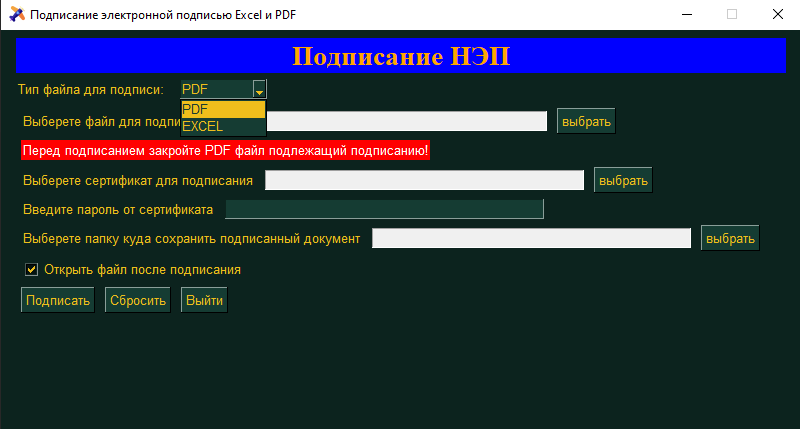
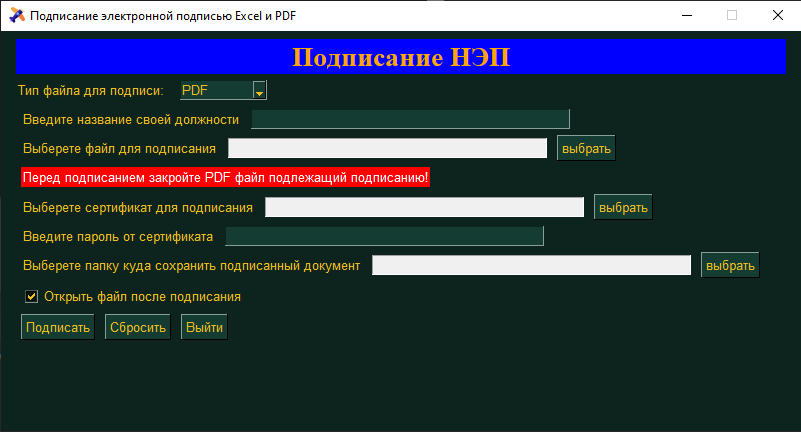
add visible date stamp to signature and add new text field in gui stuff position

Changed region(s): [[0.0, 0.1818, 0.9688, 0.7879], [0.0, 0.0, 1.0, 0.1818], [0.0312, 0.1818, 0.1875, 0.2424]]

diff --git a/sign.py b/sign.py
@@ -8,6 +8,7 @@ from cryptography.hazmat import backends
 from cryptography.hazmat.primitives.serialization import pkcs12
 from cryptography.x509.oid import NameOID
 from endesive import pdf
+from datetime import datetime
 signature_string = lambda organization, date, country : (organization + '\nDATE: '+ date)
 
 
@@ -43,100 +44,190 @@ def get_rdns_names(rdns):
                 names[OID_NAMES[attr.oid]] = attr.value
     return names
 
-def sign(pfx_certificate, password,input_file, dest):
+def beauty_fingerprint(string:str):
+    string = string.swapcase()
+    # string = " ".join(string[i:i+2] for i in range(0, len(string), 2))
+    new_str = ''
+    for i in range(0,len(string),2):
+        new_str += string[i:i + 2] + ' '
+        if i == 28:
+            new_str+='\n'
+    return new_str
+
+def sign(func_position: str, pfx_certificate, password, input_file, dest):
     try:
+        first_time = True
+
+        # Load the PKCS12 object from the pfx file
         p12pk, p12pc, p12oc = load_pfx(pfx_certificate, password)
-
+        a = p12pc.fingerprint(p12pc.signature_hash_algorithm).hex()
+        fingerprint = beauty_fingerprint(a)
+        # since we sign files with each certificate separately , after first signing we save signed file in the destination save folder
+        # and after that we should read that signed file to sign with another certificates
+        if not first_time:
+            input_file = dest
         names = get_rdns_names(p12pc.subject.rdns)
-        # pdf_f = open(input_file,'rb')
-        # pdfread = PyPDF2.PdfFileReader(pdf_f)
-        # # num_pages = pdfread.getNumPages()
-        dest = dest if dest else input_file
-
-
-        current_date = datetime.datetime.now()
-        date = current_date.strftime(f'%Y%m%d%H%M%S+03\'00\'')
-        beautiful_date = current_date.strftime('%d/%m/%Y %H:%M:%S')
         pdf_f = open(input_file, 'rb')
         pdfread = PyPDF2.PdfFileReader(pdf_f)
+        num_pages = pdfread.getNumPages()
+        pages = num_pages
+        start = num_pages - 1
 
-        fields = pdfread.get_fields()
-        # collect name fields in document
-        if str(type(fields)) != "<class 'NoneType'>":
-            signs = fields.keys()
-        else:
-            signs = ['nothing']
-        i = 1
-        # check how many our signs on page
-        for sign in signs:
-            mask = f"Signature"
-            if mask in sign:
-                i+=1
-        # print(i)
+        dest = dest if dest else input_file
+        if all:
+            start = 0  # if checked "sign all pages" then start signing from first page otherwise from the last
+        for page in range(start, pages):
+            if not first_time:
+                input_file = dest
+            date = datetime.now()
+            date = date.strftime(f'%Y%m%d%H%M%S+03\'00\'')
 
+            pdf_f = open(input_file, 'rb')
+            pdfread = PyPDF2.PdfFileReader(pdf_f)
 
-        # offset coordinates of the digital sign
-        if i == 1:
-            plus_coord = 0
-        else:
-            plus_coord = 130 * (i-1)
+            fields = pdfread.get_fields()
+            # collect name fields in document
+            if str(type(fields)) != "<class 'NoneType'>":
+                signs = fields.keys()
+            else:
+                signs = ['nothing']
+            i = 1
+            # check how many our signs on page
+            for sign in signs:
+                for t in range(1, 4):
+                    mask = f"Signature{t}_p{page + 1}s"
+                    if mask in sign:
+                        i += 1
 
-        # parameters of the sign like size, align, place coords, etc
-        # signature = signature_string(names['CN'], date, names['C'])
-        dct = {
-        "aligned": 0,
-        "sigflags": 3,
-        "sigflagsft": 132,
-        "sigpage": 0,
-        'sigandcertify': True,
-        "auto_sigfield": False,
-        #"sigandcertify": False,
-        "signaturebox": (20 + plus_coord, 20, 130 + plus_coord, 75),
-        "signform": False,
-        "sigfield": f"Signature{i}",
-        # "signature_appearance": {
-        #     'background': [1, 1, 1],
-        #     # 'icon': '../signature_test.png',
-        #     'outline': [0.2, 0.3, 0.5],
-        #     'border': 2,
-        #     'labels': False,
-        #     'display': 'CN,contact,date'.split(','),
-        #     # 'display': signature,
-        #     },
-        "signature_manual": [
-            ['text_box', f'{names["CN"]}\n{names["E"]}\n{beautiful_date}',
-             # font  *[bounding box], size, wrap, align, baseline, spacing
-             'default', 5, 10, 270, 40, 7, True, 'left', 'top'],
-            ['fill_colour', 0.4, 0.4, 0.4],
-            ['rect_fill', 1, 50, 108, 1],
-            ['fill_colour', 0, 0, 0],['border', 1],['outline',0.2, 0.3, 0.5],['background',1,1,1],
-            ['stroke_color',0.5,1,1]
+            if i == 1:
+                plus_coord = 0
+            else:
+                plus_coord = 250 * (i - 1)
 
-        ],
+            # parameters of the sign like size, align, place coords, etc
+            # signature = signature_string(names['CN'], date, names['C'])
 
-        "contact": names['E'],
-        "location": "Russia",
-        "signingdate": date,
-        "reason": "Подписание",
-        # "signature": signature,
-        "password": password,
+            first = names["CN"][0].lower()
+            signature_date = datetime.now().strftime("%d/%m/%Y %H:%M:%S")
+            if first == 'ш':
+                name = names["CN"][1:]
+                dct = {
+                    "aligned": 0,
+                    "sigflags": 3,
+                    "sigflagsft": 132,
+                    "sigpage": pages - 1,
+                    'sigandcertify': True,
+                    "auto_sigfield": False,
+                    # "sigandcertify": False,
+                    "signaturebox": (5 + plus_coord, 5, 255 + plus_coord, 80),
+                    "signform": False,
+                    "sigfield": f"Signature{i}_p{page + 1}s",
+                    # "signature_appearance": {
+                    #     'background': [1, 1, 1],
+                    #     # 'icon': '../signature_test.png',
+                    #     'outline': [0.2, 0.3, 0.5],
+                    #     'border': 2,
+                    #     'labels': False,
+                    #     'display': 'CN,contact,date'.split(','),
+                    #     # 'display': signature,
+                    #     },
 
-        }
+                    "signature_manual": [
+                        ['background', 1, 0, 1],
+                        # ['fill_colour', 1, 0, 0],
+                        # ['rect_fill', 0, 50, 108, 150], ,['outline',1, 1, 0.5],
+                        ['stroke_color', 0, 0, 1],  # border color
+                        ['border', 1],
+                        ['fill_colour', 0, 0, 1],  # text color
+                        ['text_box', f'Документ подписан электронно', 'default', 0, 60, 270, 10, 7, True, 'center',
+                         'top'],
+                        ['text_box', f'Подписал(ФИО):\nEmail:\nДолжность:\nВремя подписания\nСертификат:',
 
+                         # font  *[bounding box], size, wrap, align, baseline, spacing
+                         'default', 5, 15, 80, 40, 7, True, 'left', 'top'],
+                        ['text_box', f'{name}',
+                         'ttf_font', 97.5, 15, 270, 40, 7, True, 'left', 'top'],
+                        ['text_box', f'\n {names["E"]}\n{func_position}\n{signature_date}\n{fingerprint}',
+                         'ttf_font', 90, 15, 270, 40, 7, True, 'left', 'top'],
+                        ['text_box', f'{first}',
+                         'ttf_font', 90, 18.5, 270, 40, 10, True, 'left', 'top']
 
-        # sign page with cryptography
-        datau = open(input_file, 'rb').read()
-        datas = pdf.cms.sign(datau,
-                     dct,
-                     p12pk, p12pc, p12oc,'sha256'
-                     )
+                    ],
 
+                    "contact": names['E'],
+                    "location": "Russia",
+                    "signingdate": date,
+                    "reason": "Подписание",
+                    # "signature": signature,
+                    "password": password,
 
-        output_file = input_file.replace(input_file, dest)
-        with open(output_file, 'wb') as fp:
-          fp.write(datau)
-          fp.write(datas)
-        pdf_f.close()
+                }
+            else:
+                name = names["CN"]
+
+                dct = {
+                    "aligned": 0,
+                    "sigflags": 3,
+                    "sigflagsft": 132,
+                    "sigpage": pages - 1,
+                    'sigandcertify': True,
+                    "auto_sigfield": False,
+                    # "sigandcertify": False,
+                    "signaturebox": (40 + plus_coord, 40, 290 + plus_coord, 120),
+                    "signform": False,
+                    "sigfield": f"Signature{i}_p{page + 1}s",
+                    # "signature_appearance": {
+                    #     'background': [1, 1, 1],
+                    #     # 'icon': '../signature_test.png',
+                    #     'outline': [0.2, 0.3, 0.5],
+                    #     'border': 2,
+                    #     'labels': False,
+                    #     'display': 'CN,contact,date'.split(','),
+                    #     # 'display': signature,
+                    #     },
+
+                    "signature_manual": [
+                        ['background', 1, 0, 1],
+                        # ['fill_colour', 1, 0, 0],
+                        # ['rect_fill', 0, 50, 108, 150], ,['outline',1, 1, 0.5],
+                        ['stroke_color', 0, 0, 1],  # border color
+                        ['border', 1],
+                        ['fill_colour', 0, 0, 1],  # text color
+                        ['text_box', f'Документ подписан электронно', 'default', 0, 60, 270, 10, 7, True, 'center',
+                         'top'],
+                        ['text_box', f'Подписал(ФИО):\nEmail:\nДолжность:\nВремя подписания\nСертификат:',
+
+                         # font  *[bounding box], size, wrap, align, baseline, spacing
+                         'default', 5, 15, 80, 40, 7, True, 'left', 'top'],
+
+                        ['text_box', f'{name}\n {names["E"]}\n{func_position}\n{signature_date}\n{fingerprint}',
+                         'ttf_font', 90, 15, 270, 40, 7, True, 'left', 'top'],
+
+                    ],
+
+                    "contact": names['E'],
+                    "location": "Russia",
+                    "signingdate": date,
+                    "reason": "Подписание",
+                    # "signature": signature,
+                    "password": password,
+
+                }
+
+            print(f'{name}\n{names["E"]}\n{func_position}\n{fingerprint}')
+            # sign page with cryptography
+            datau = open(input_file, 'rb').read()
+            datas = pdf.cms.sign(datau,
+                                 dct,
+                                 p12pk, p12pc, p12oc,
+                                 'sha1'
+                                 )
+
+            output_file = input_file.replace(input_file, dest)
+            with open(output_file, 'wb') as fp:
+                fp.write(datau)
+                fp.write(datas)
+            first_time = False
         return True
     except Exception as e:
         print(e)
@@ -144,9 +235,9 @@ def sign(pfx_certificate, password,input_file, dest):
 
 
 if __name__ == '__main__':
-    input_file = 'temp1.pdf'
+    input_file = '1.pdf'
     pfx_certificate = 'container.pfx'
-    password = '123'
+    password = 'password'
     dest = 'temp2.pdf'
-
-    print(sign(pfx_certificate,password,input_file,dest))
+    func_pos = 'TEST TEST'
+    print(sign(func_pos,pfx_certificate,password,input_file,dest))

diff --git a/main.py b/main.py
@@ -11,13 +11,6 @@ sg.theme('DarkGreen7')
 
 
 def make_window(type='PDF'):
-    # if type == 'PDF':
-    #     pdf=True
-    #     excel = False
-    # else:
-    #     excel=True
-    #     pdf=False
-    # sg.Input
     layout = [  [sg.Text('Подписание НЭП',border_width=1,background_color='Blue',text_color='orange',size=(50,1),justification='center',auto_size_text=True,font=('Times new roman',20,'bold'))],
                 [sg.T("Тип файла для подписи: "),
                  sg.Combo(['PDF', 'EXCEL'], size=(10, 3), key='type_file', enable_events=True, default_value=type,
@@ -37,15 +30,16 @@ while True:
     # print(values)
     if event:
         window['success'].update(visible=False)
-    if event == sg.WIN_CLOSED or event=='exit':
+    if event == sg.WIN_CLOSED or event == 'exit':
         break
     elif event == 'clear':
         clear_input(window,sg)
 
     elif event == 'sign':
-
+        window['success'].update(visible=False)
         if check_input(values,sg):
             # window['waiting'].update(visible=True)
+            function = values['function']
             pfx = values['PFX']
             password = values['PASSWORD']
             folder = values['FOLDER']
@@ -56,12 +50,13 @@ while True:
             else:
                 pdf_to_sign = values['FILE']
                 output_file = f"{folder}/{values['FILE'].split('/')[-1]}"
+
             if pdf_to_sign != False:
-                res = sign(pfx,password,pdf_to_sign,output_file)
+                res = sign(function,pfx,password,pdf_to_sign,output_file)
             else:
                 res = False
 
-            # time.sleep(0.2)
+            time.sleep(0.2)
             if res:
                 if values['type_file'] == 'EXCEL':
                     os.remove(pdf_to_sign)
@@ -70,7 +65,7 @@ while True:
                     subprocess.Popen([output_file],shell=True)
             else:
                 sg.PopupError('Не удалось подписать документ, что-то пошло не так')
-            # window['waiting'].update(visible=False)
+            window['waiting'].update(visible=False)
     elif event == 'type_file':
         if values['type_file'] == 'PDF':
             window['sheets'].update(visible=False)

diff --git a/func.py b/func.py
@@ -1,9 +1,8 @@
 import os
 import time
 
-import pandas as pd
+
 import tempfile
-import pdfkit
 from win32com import client
 from openpyxl import load_workbook
 import subprocess
@@ -11,6 +10,8 @@ def initial_layout(sg):
     choose_sheet = [[sg.Text('Выберете лист для подписи'),sg.Combo(key='sheet_list',size=(25,3),values=[])]]
     color = 'black'
     common_layout = [
+        [sg.Text('Введите название своей должности'),
+         sg.Input(key='function', enable_events=True, text_color='white')],
         [sg.Text('Выберете файл для подписания'), sg.Input(key='FILE', enable_events=True, readonly=True,text_color=color),
          sg.FileBrowse('выбрать',key='browse_files', file_types=[('Файлы для подписания', '*.pdf')])],
         [sg.Text('Перед подписанием закройте PDF файл подлежащий подписанию!',key='caution',background_color='red',text_color='white')],
@@ -36,7 +37,8 @@ def clear_input(window,sg):
 
 def check_input(values,sg):
     keys_missed = []
-    key_dict = {'FILE': 'Не выбран файл для подписания',
+    key_dict = {'function': 'Не введено название должности',
+                'FILE': 'Не выбран файл для подписания',
                 'PFX': 'Не выбран сертификат для подписания',
                 'PASSWORD': 'Не введён пароль для сертификата',
                 'FOLDER': 'Не выбрана папка для сохранения подписанного документа',
@@ -93,10 +95,4 @@ def excel_to_pdf(values):
 
 
 if __name__ == '__main__':
-    # import PySimpleGUI as sg
-    #
-    import win32api
-
-    print(win32api.FormatMessage(-2147018887))
-    # sg.theme_previewer()
-    # subprocess.Popen([ r"C:/Users/skryabin.p/Desktop/СЗ_лист №2 (оборотный).pdf"],shell=True)
+    pass
